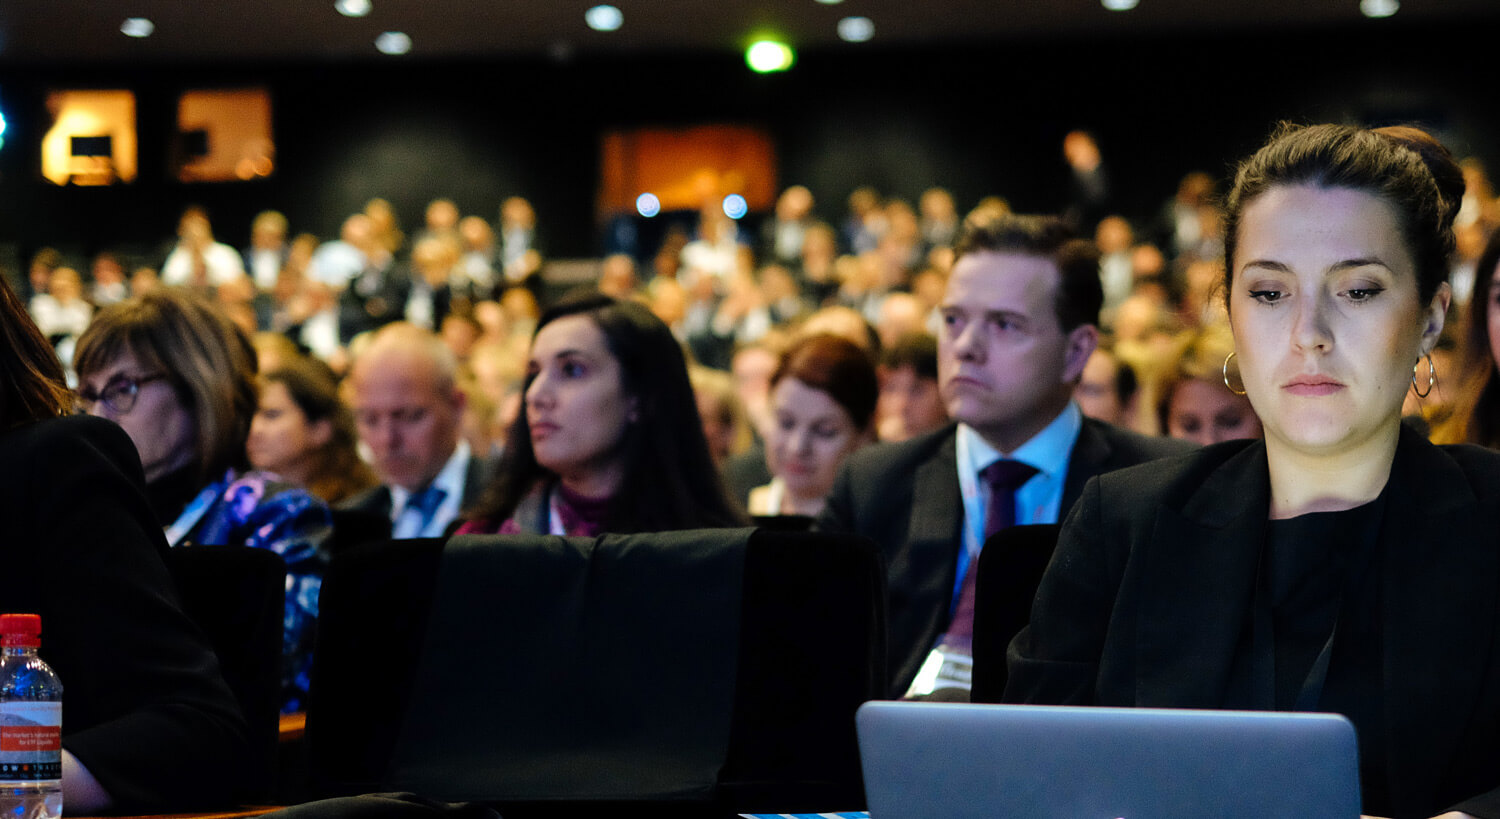
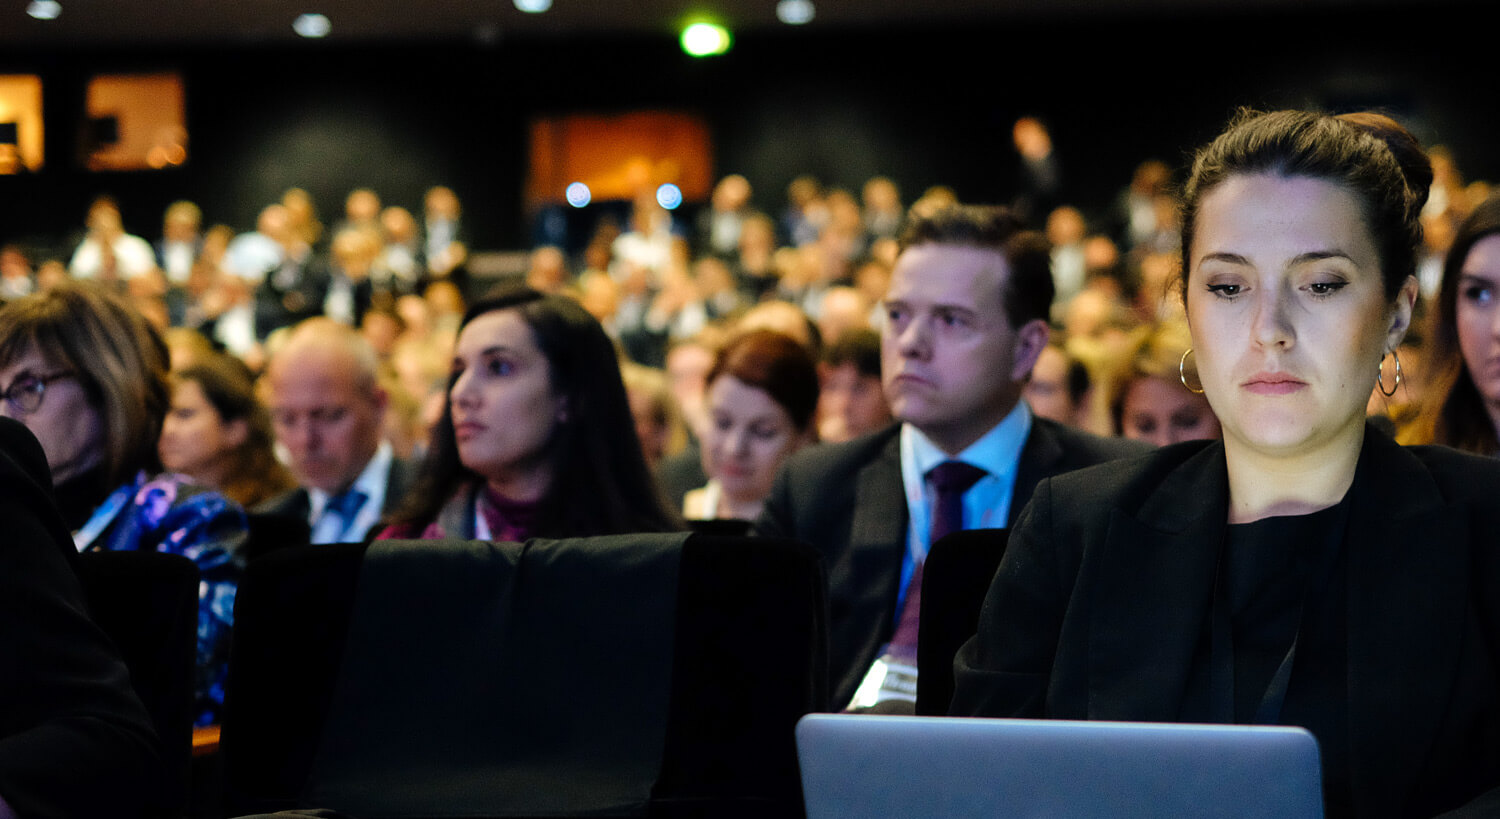
Updating Css and Images for hero

diff --git a/css/style.css b/css/style.css
@@ -140,6 +140,7 @@ a.nav-link:hover {color:#f7c996;}
         .inner-hero-section h1 {font-size: 3.2vh; }
 }
 
+
 /* Insights Market Section Illustrations */
 #market-illustrations { position: absolute; display: -ms-flexbox; display: flex; width: 1287px; left: 45%; margin-top:-100px; margin-left: -644px; transform: scale(.5) rotate(-12deg) translateX(50px); transform-origin: 50% 20%; overflow:hidden;}
 #market-illustrations div { display: -ms-flexbox; display: flex; -ms-flex-pack: center; justify-content: center; -ms-flex-align: center; align-items: center; border-radius: 38px; background: #f3f3f3; box-shadow: inset 0 4px 7px 1px #fff, inset 0 -5px 20px rgba(173, 186, 204, .25), 0 2px 6px rgba(0, 21, 64, .14), 0 10px 20px rgba(0, 21, 64, .05);}
@@ -178,6 +179,7 @@ a.nav-link:hover {color:#f7c996;}
     }
     
 }
+
 
 /* Reach Page Navigation Styling */
 .reach-tab .tab .nav-tabs {border-bottom:none;}
@@ -283,3 +285,8 @@ table#listings img.eventlogo { max-width: 20vh; max-height:20vh; }
 
     
 }
+
+
+
+
+

diff --git a/index.html b/index.html
@@ -48,6 +48,7 @@
         <li><a href="#" data-toggle="tab" data-bg="img/bg-img-hero-4.jpg">Hero 4</a></li>
         <li><a href="#" data-toggle="tab" data-bg="img/bg-img-hero-5.jpg">Hero 5</a></li>
         <li><a href="#" data-toggle="tab" data-bg="img/bg-img-hero-6.jpg">Hero 6</a></li>
+        <li><a href="#" data-toggle="tab" data-bg="img/bg-img-hero-7.jpg">Hero 7</a></li>
     </ul>
 
 <!-- Hero Image Chooser End-->
